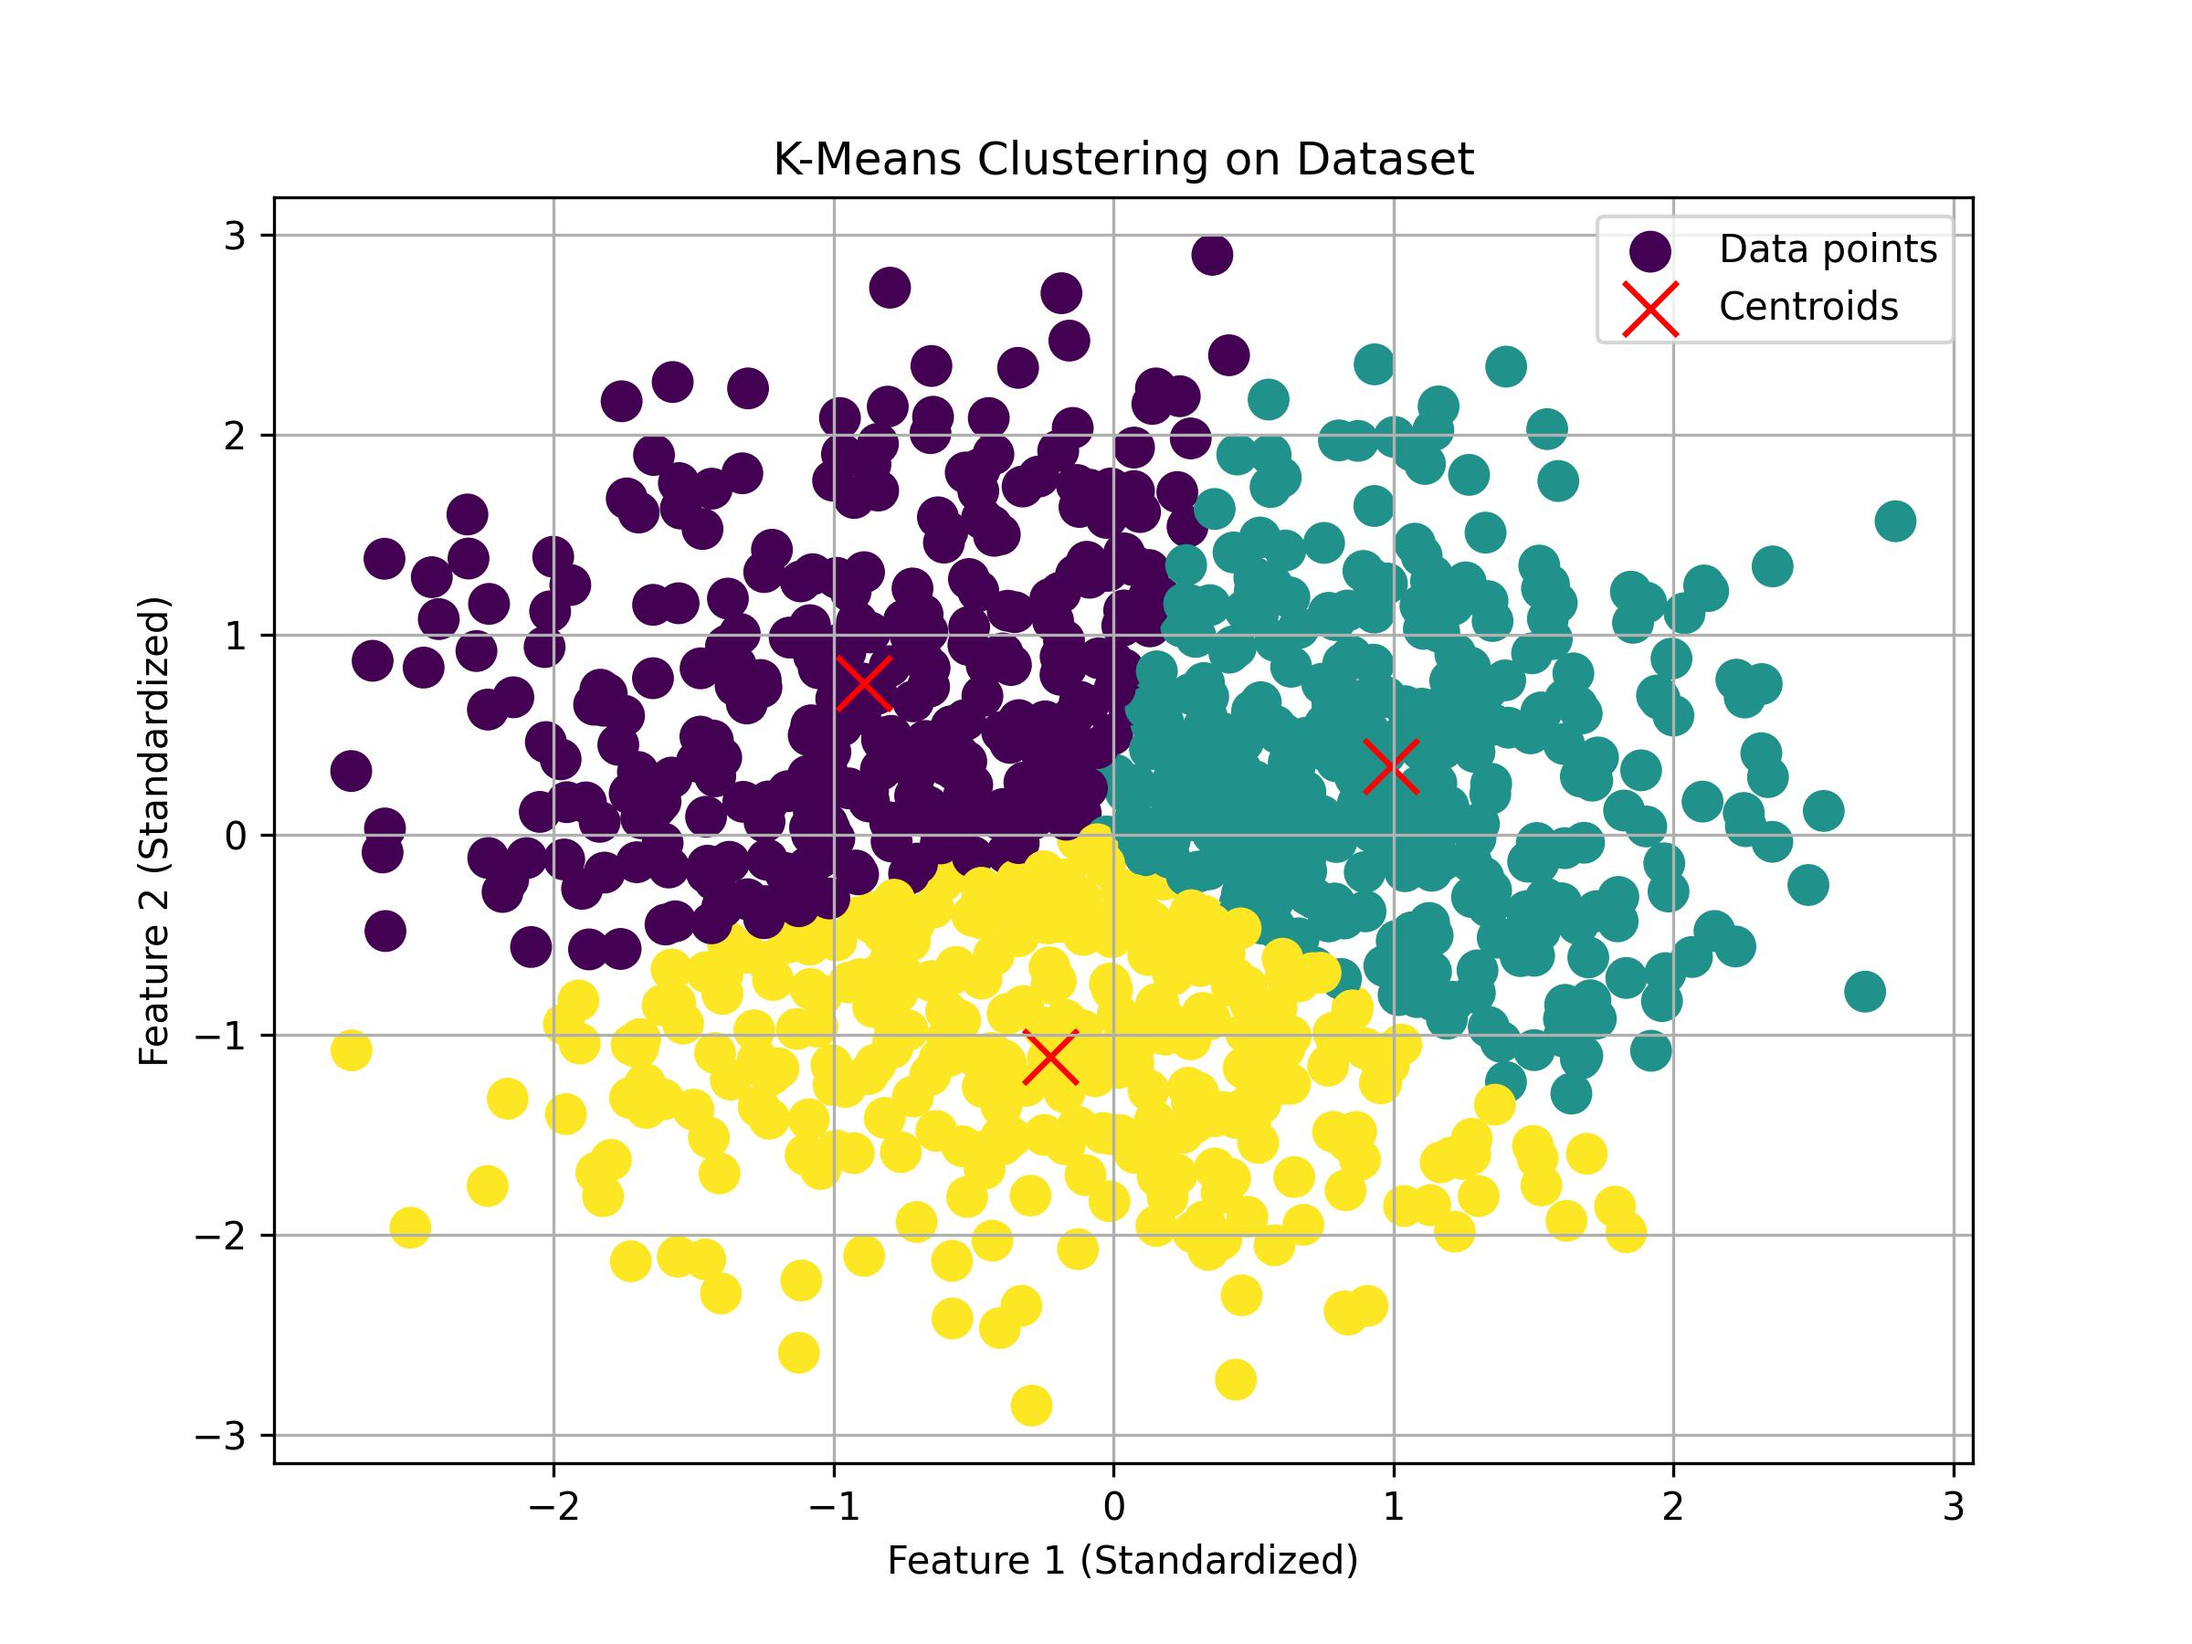
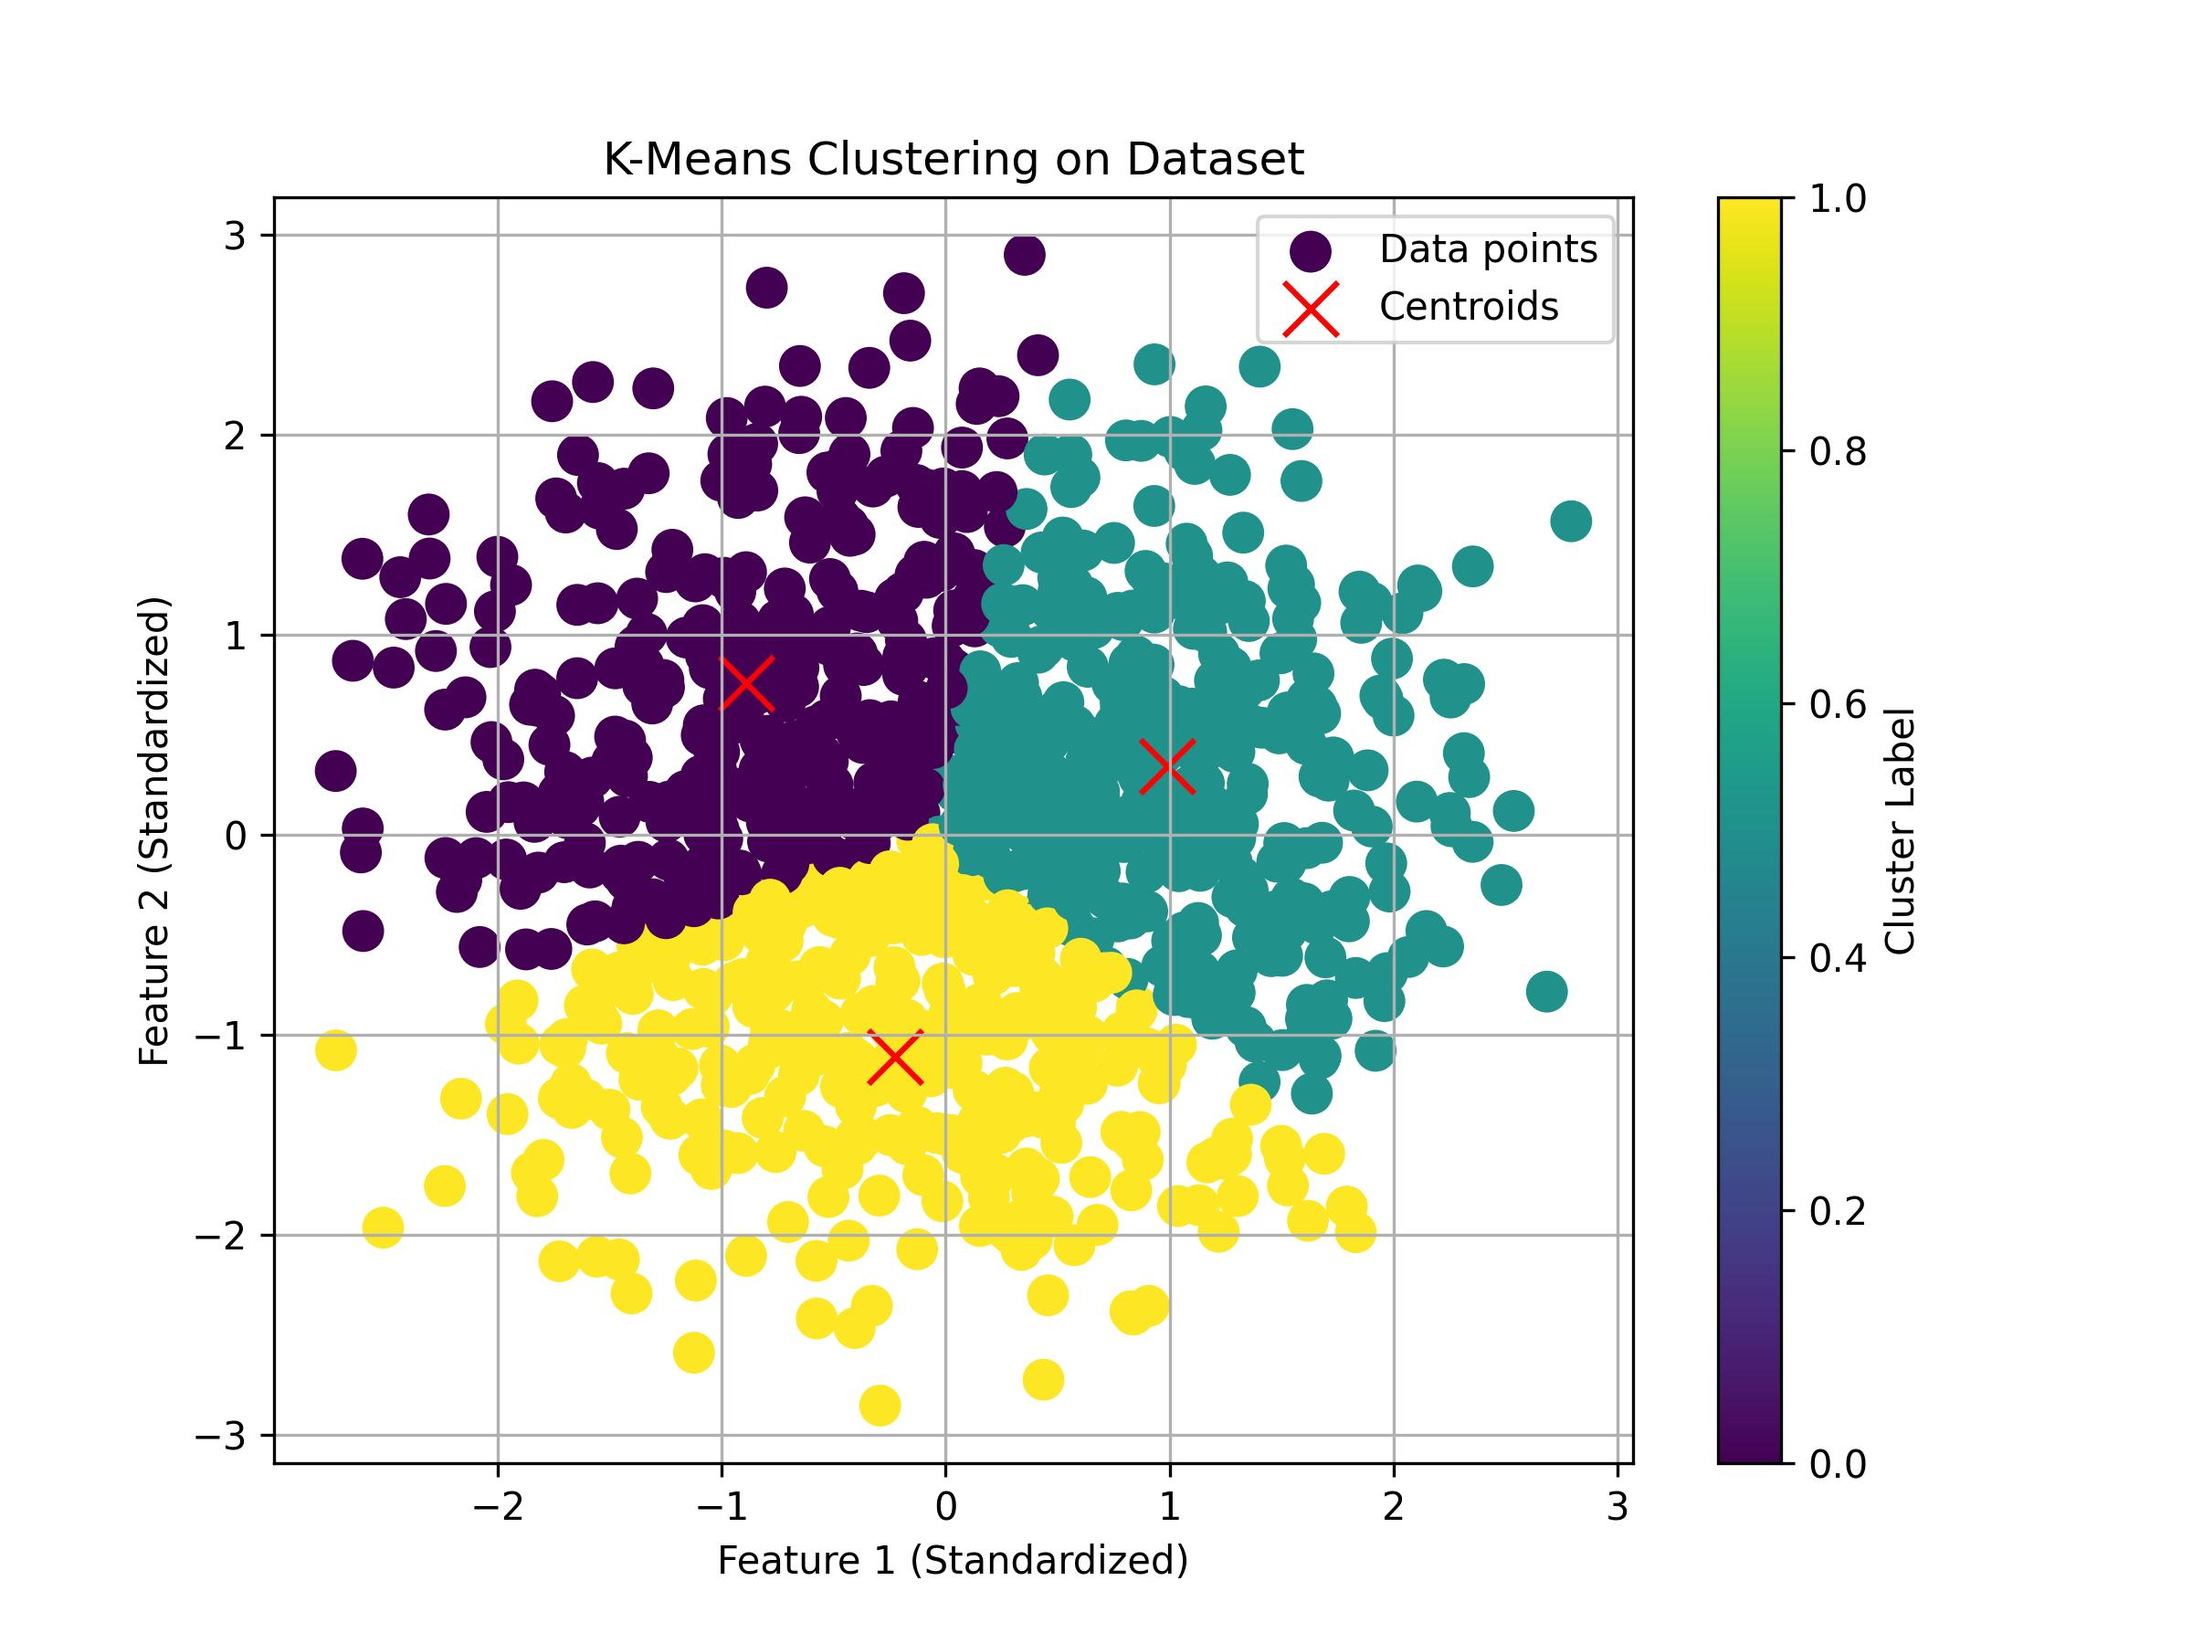
all model implemented

diff --git a/Code/app.py b/Code/app.py
@@ -30,6 +30,8 @@ import streamlit as st # For building the web app
 from train_Kmeans import train_model as train
 from train_gmm import train_model as train_gmm
 from train_db import train_model as train_db
+from train_optics import train_model as train_optics
+from train_birch import train_model as train_birch
 
 st.set_page_config(page_title="Unsupervised Clustering", page_icon=":cash:", layout="centered")
 st.markdown("<h1 style='text-align: center; color: white;'>Unsupervised Clustering </h1>", unsafe_allow_html=True)
@@ -100,7 +102,44 @@ with tab2:
     if st.button(f"Train {model_name} Model", use_container_width=True):
         
         with st.status(f"Training {model_name}..."):
-            score= train_db(df)
+            score= train_db(df, minmax = True)
+
+        st.success(f"{model_name} Trained Sucessully")
+        st.markdown("<h4 style='text-align: center; color: white;'>Model Evaluation </h4>", unsafe_allow_html=True)
+
+        st.write(f"Silhouette: {score}")
+        st.image(f"Code/saved images/{model_name}.jpg", caption=f"Cluster graph of {model_name}", width=600)
+
+        st.divider()
+
+        
+    # OPTICS
+    
+    model_name = 'OPTICS'
+    st.markdown(f"<h3 style='text-align: center; color: white;'>{model_name}</h3>", unsafe_allow_html=True)
+
+    if st.button(f"Train {model_name} Model", use_container_width=True):
+        
+        with st.status(f"Training {model_name}..."):
+            score= train_optics(df, minmax = True)
+
+        st.success(f"{model_name} Trained Sucessully")
+        st.markdown("<h4 style='text-align: center; color: white;'>Model Evaluation </h4>", unsafe_allow_html=True)
+
+        st.write(f"Silhouette: {score}")
+        st.image(f"Code/saved images/{model_name}.jpg", caption=f"Cluster graph of {model_name}", width=600)
+
+        st.divider()
+
+        
+    # BIRCH
+    model_name = 'BIRCH'
+    st.markdown(f"<h3 style='text-align: center; color: white;'>{model_name}</h3>", unsafe_allow_html=True)
+
+    if st.button(f"Train {model_name} Model", use_container_width=True):
+        
+        with st.status(f"Training {model_name}..."):
+            score= train_birch(df, minmax = True)
 
         st.success(f"{model_name} Trained Sucessully")
         st.markdown("<h4 style='text-align: center; color: white;'>Model Evaluation </h4>", unsafe_allow_html=True)

diff --git a/Code/train_optics.py b/Code/train_optics.py
@@ -27,7 +27,7 @@
 
 import pandas as pd # For data manipulation and analysis
 import joblib # For loading the trained model
-from sklearn.cluster import DBSCAN
+from sklearn.cluster import DBSCAN, OPTICS
 from ingest_transform import preprocess_data, scale_data
 
 # Importing helper functions from the local .py files
@@ -37,8 +37,8 @@ from evaluate import evaluate_model
 def train_model(df, minmax):
     X = preprocess_data(df)
     X_pca = scale_data(X, minmax)
-    dbscan = DBSCAN(eps=0.2, min_samples=12).fit(X_pca)
-    labels = dbscan.labels_
-    evals = evaluate_model(X_pca, labels, 'DBSCAN')
+    optics = OPTICS(min_samples=10, xi=0.02, min_cluster_size=0.25).fit(X_pca)
+    labels = optics.labels_
+    evals = evaluate_model(X_pca, labels, 'OPTICS')
 
     return evals

diff --git a/Code/train_birch.py b/Code/train_birch.py
@@ -27,7 +27,7 @@
 
 import pandas as pd # For data manipulation and analysis
 import joblib # For loading the trained model
-from sklearn.cluster import DBSCAN
+from sklearn.cluster import Birch
 from ingest_transform import preprocess_data, scale_data
 
 # Importing helper functions from the local .py files
@@ -36,9 +36,9 @@ from evaluate import evaluate_model
 
 def train_model(df, minmax):
     X = preprocess_data(df)
-    X_pca = scale_data(X, minmax)
-    dbscan = DBSCAN(eps=0.2, min_samples=12).fit(X_pca)
-    labels = dbscan.labels_
-    evals = evaluate_model(X_pca, labels, 'DBSCAN')
+    X_pca = scale_data(X)
+    birch = Birch(n_clusters=3, threshold=0.65)
+    labels = birch.fit_predict(X_pca)
+    evals = evaluate_model(X_pca, labels, 'BIRCH')
 
     return evals

diff --git a/Code/ingest_transform.py b/Code/ingest_transform.py
@@ -32,6 +32,7 @@ from sklearn.calibration import LabelEncoder
 from sklearn.decomposition import PCA
 from sklearn.discriminant_analysis import StandardScaler
 from sklearn.impute import SimpleImputer
+from sklearn.preprocessing import MinMaxScaler
 
 
 def preprocess_data(df):
@@ -50,9 +51,12 @@ def preprocess_data(df):
 
     return X
 
-def scale_data(X):
-    scaler = StandardScaler()  # Changed to StandardScaler
-    # scaler = MinMaxScaler()  # Changed to StandardScaler
+def scale_data(X, minmax = False):
+    if(minmax == False):
+        scaler = StandardScaler()  
+    else:
+        scaler = MinMaxScaler()  # Changed to StandardScaler
+
     X_scaled = scaler.fit_transform(X)
 
     # Dimensionality Reduction using PCA

diff --git a/Code/evaluate.py b/Code/evaluate.py
@@ -45,6 +45,7 @@ def evaluate_model(X_pca, labels, algorithm_name, centroids = None):
     plt.ylabel('Feature 2 (Standardized)')
     plt.legend()
     plt.grid(True)
+    plt.colorbar(label='Cluster Label')
     plt.savefig(f'Code/saved images/{algorithm_name}.jpg', format="jpg", dpi=300)
     plt.show()
     return silhouette_avg
